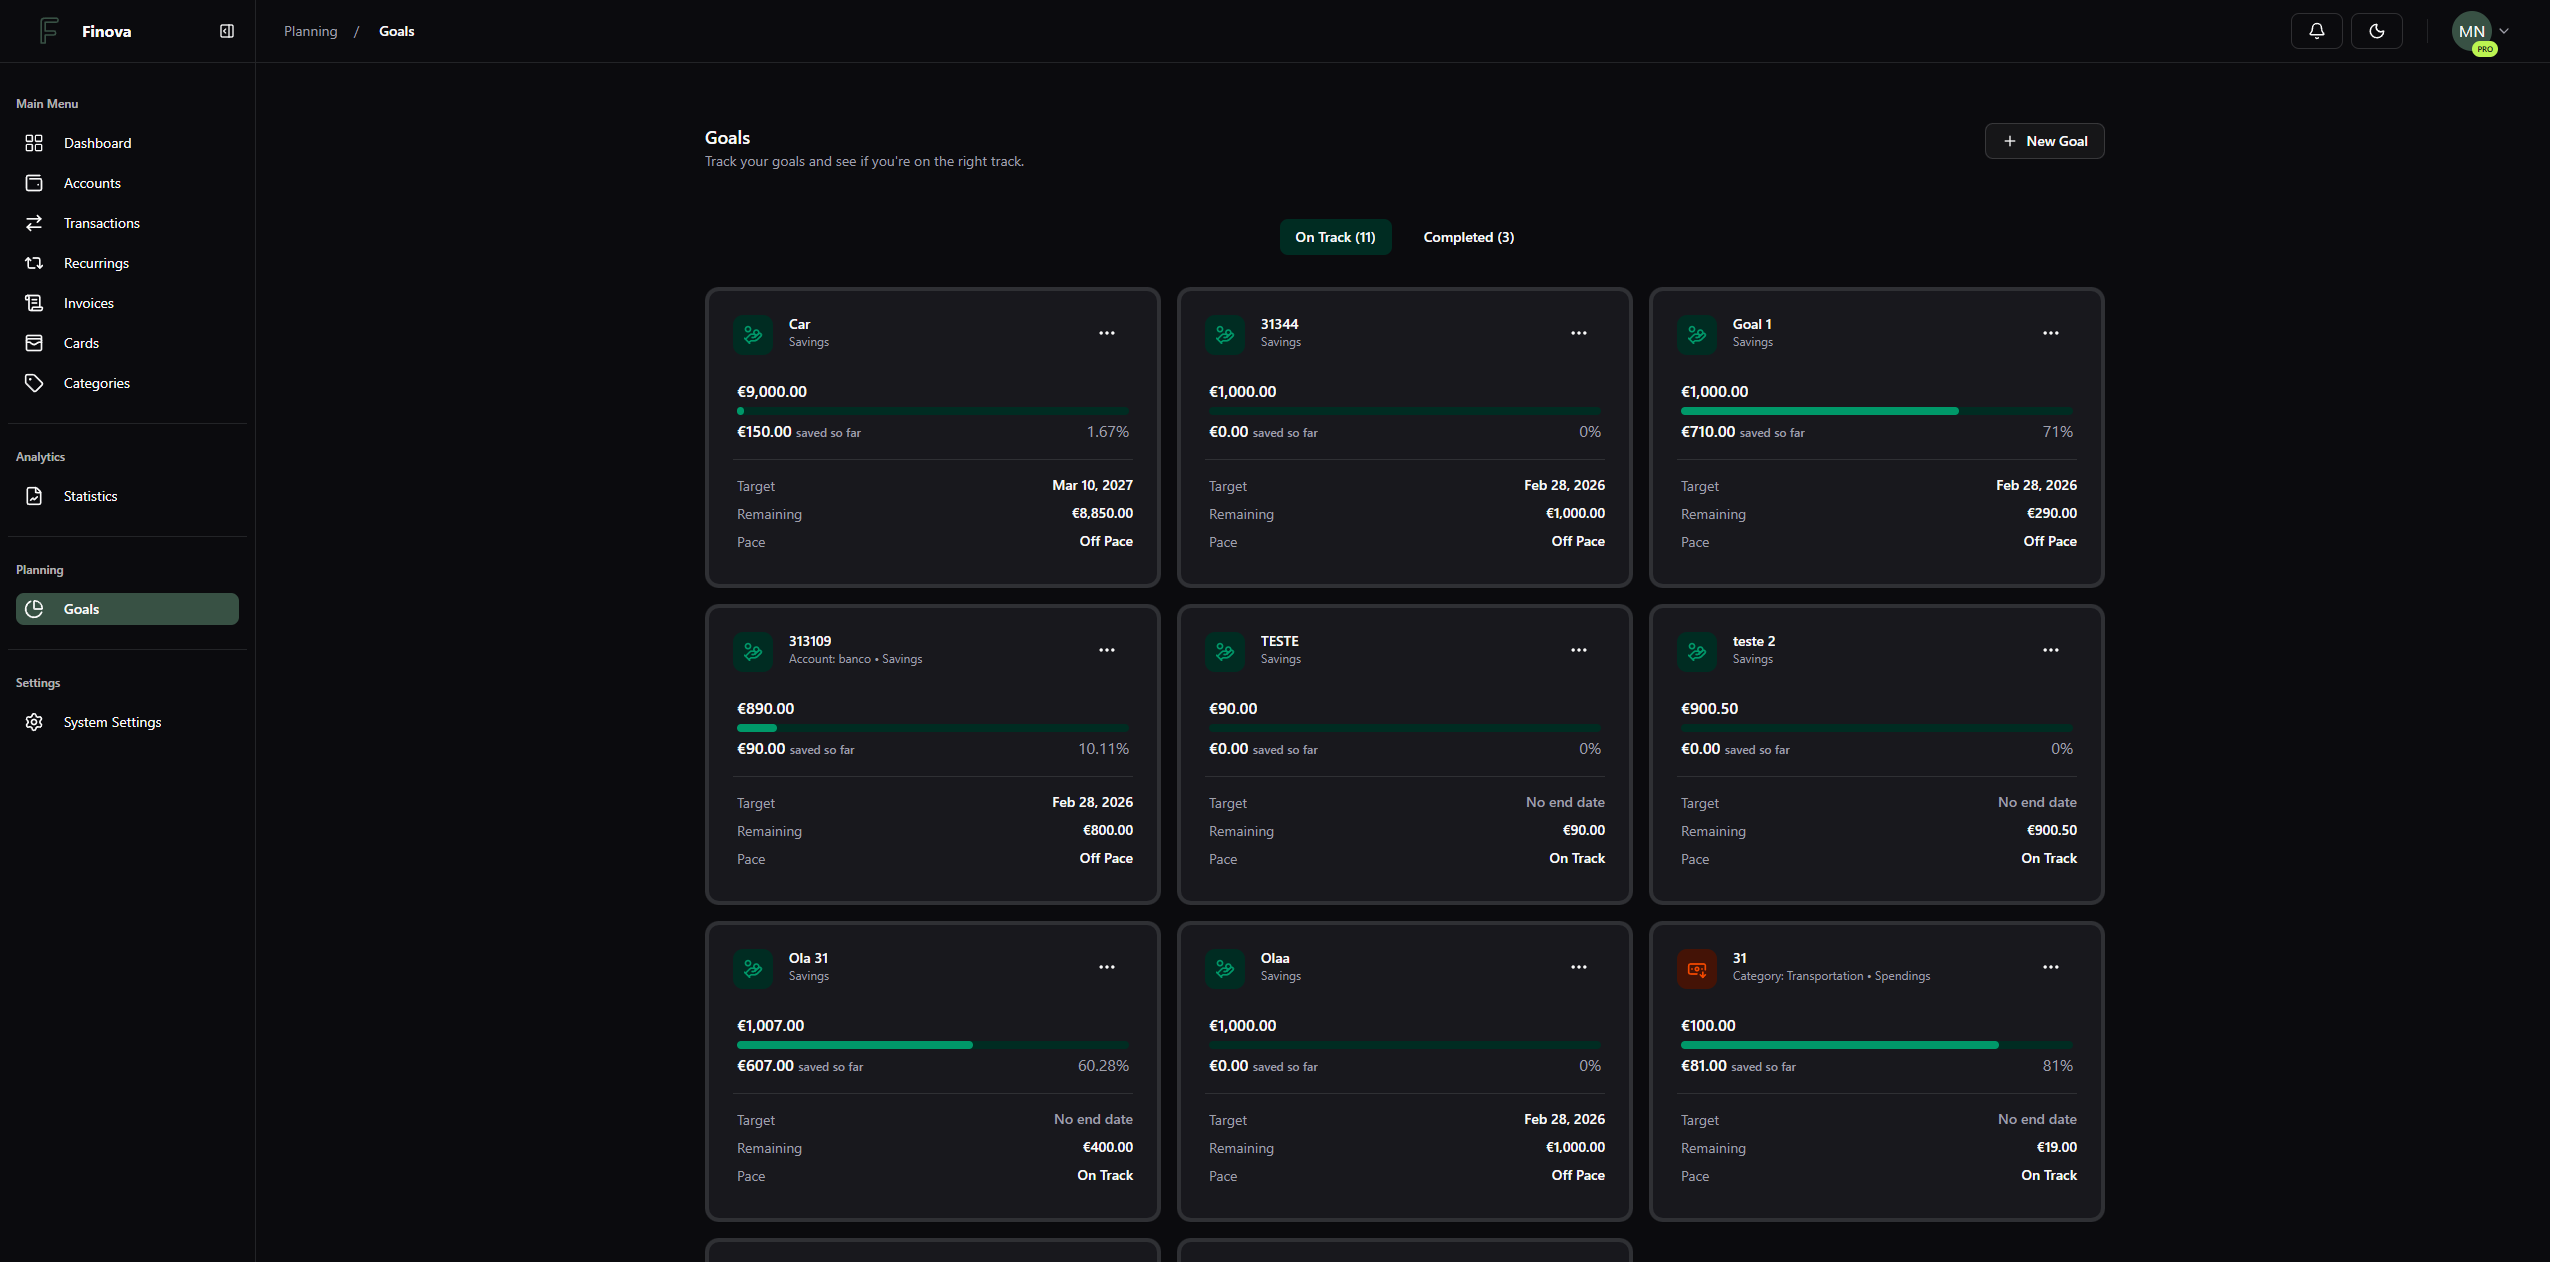
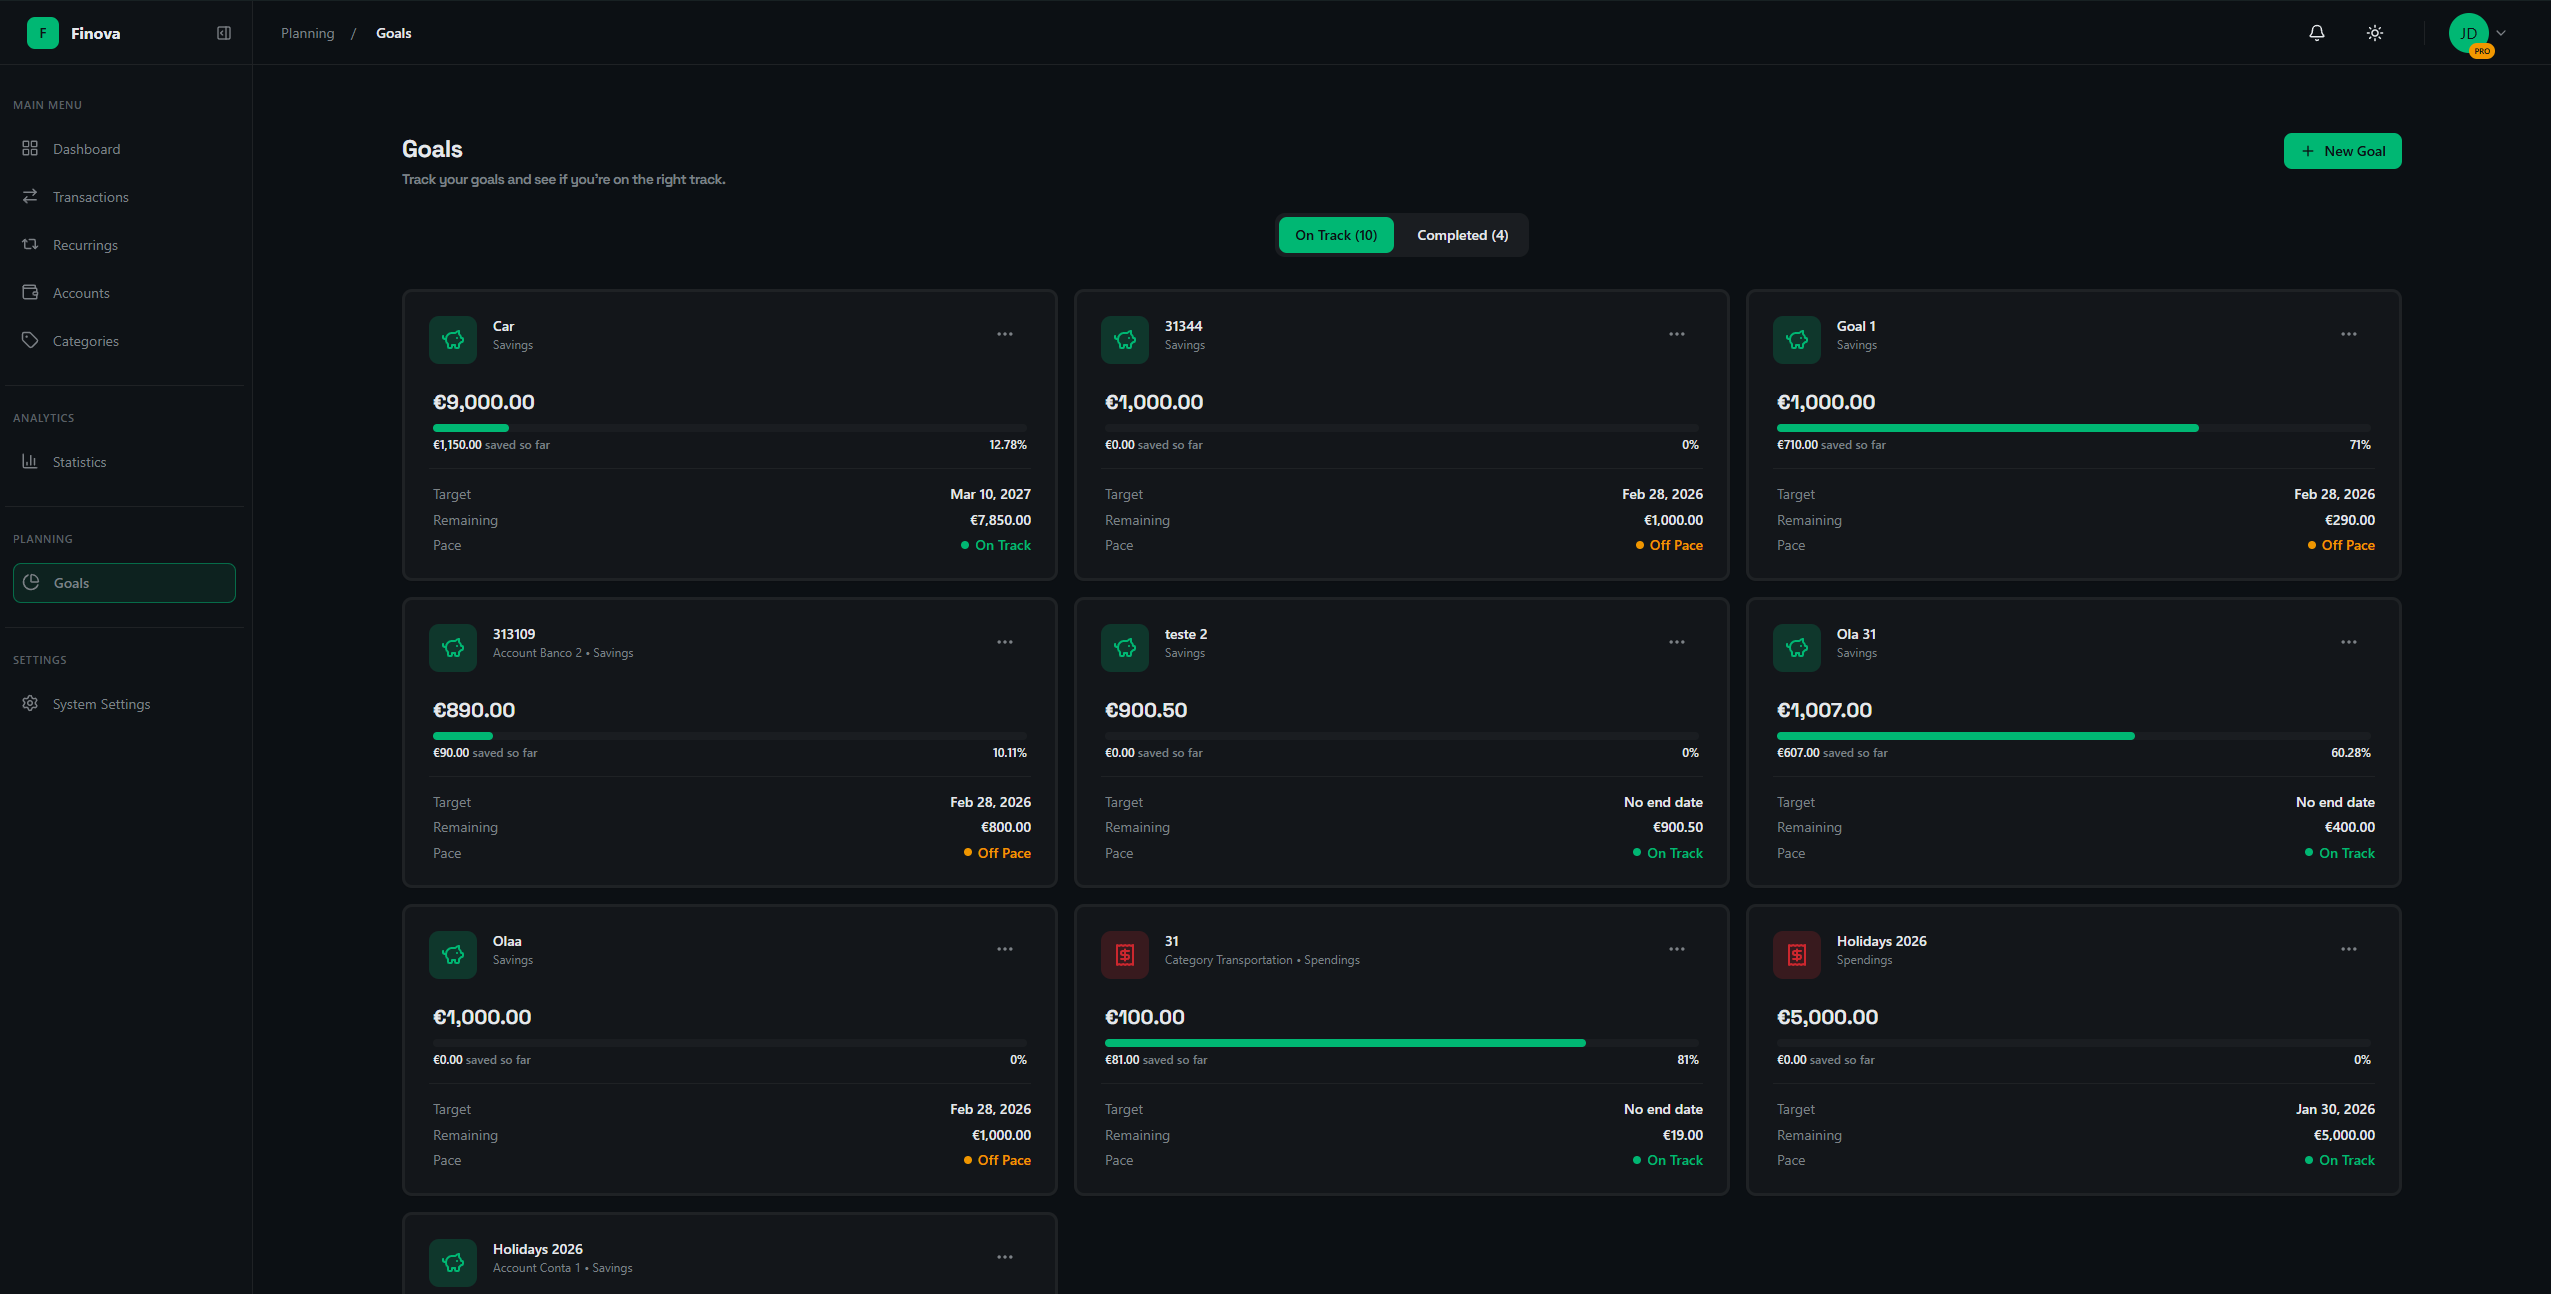
refactor: updated web screenshots

diff --git a/README.md b/README.md
@@ -11,17 +11,21 @@ A full-stack expense tracking application built as a learning project. Monorepo 
 
 ## Screenshots
 
-| Dashboard | Transactions |
-|-----------|-------------|
-| ![Dashboard](screenshots/Dashboard.png) | ![Transactions](screenshots/Transactions.png) |
+| Dashboard |
+|-----------|
+| ![Dashboard](screenshots/Dashboard.png) |
+
+| Recurrings | Transactions |
+|------------|--------------|
+| ![Recurrings](screenshots/Recurrings.png) | ![Transactions](screenshots/Transactions.png) |
 
 | Statistics | Goals |
 |------------|-------|
 | ![Statistics](screenshots/Statistics.png) | ![Goals](screenshots/Goals.png) |
 
-| Cards | Settings |
-|-------|---------|
-| ![Cards](screenshots/Cards.png) | ![Settings](screenshots/Settings.png) |
+| Accounts | Settings |
+|----------|----------|
+| ![Accounts](screenshots/Accounts.png) | ![Settings](screenshots/Settings.png) |
 
 ## Features
 
